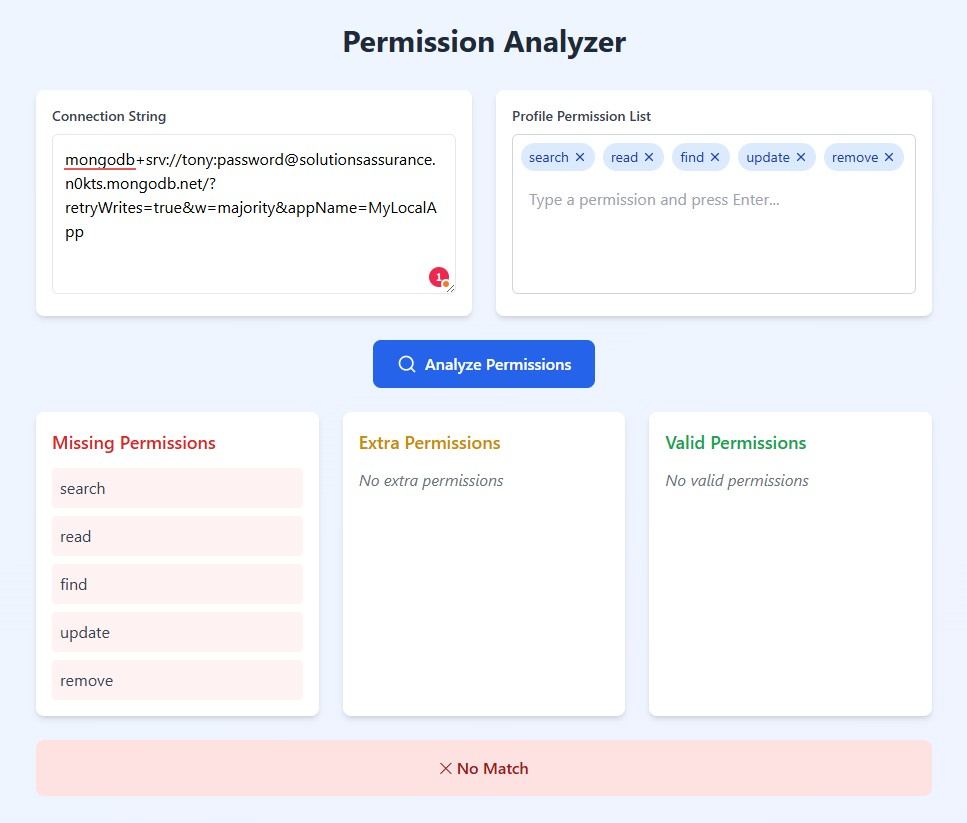
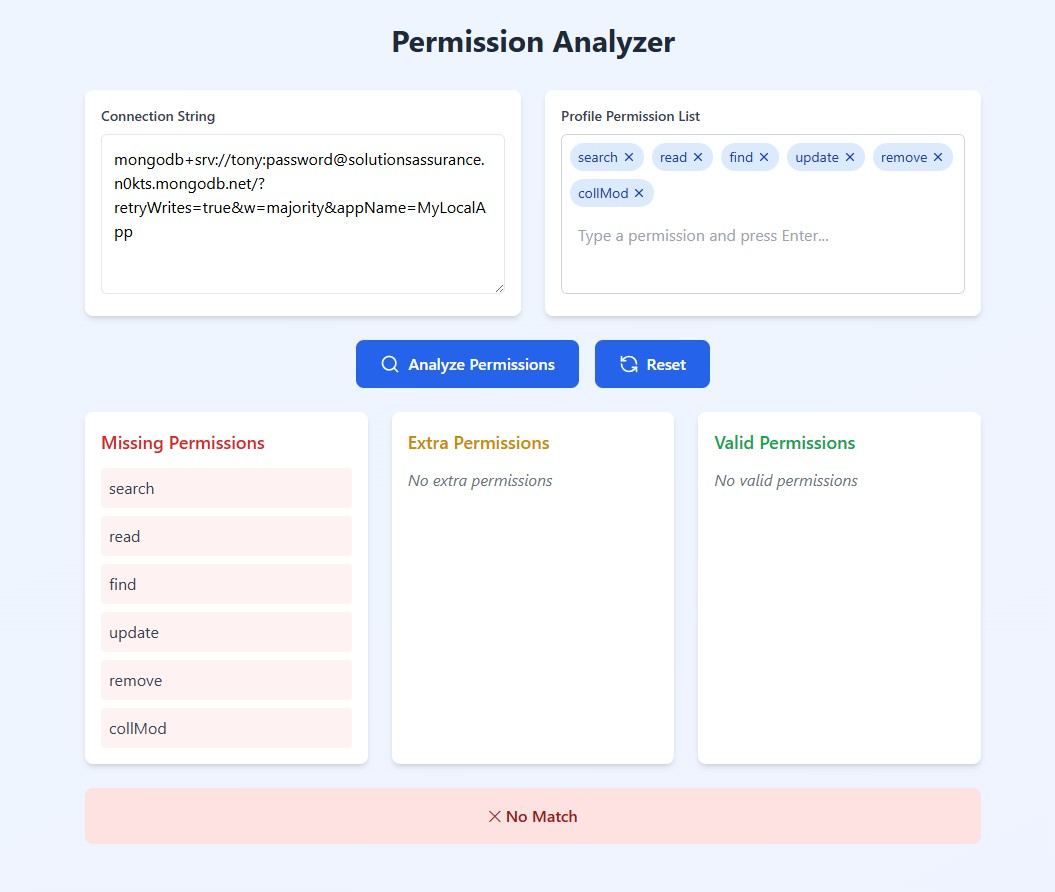
update docs

diff --git a/frontend/src/App.tsx b/frontend/src/App.tsx
@@ -1,9 +1,9 @@
 import { useState } from 'react';
-import { Search } from 'lucide-react';
+import { Search, Circle, RefreshCcw } from 'lucide-react';
 import { ConnectionStringInput } from './components/ConnectionStringInput';
 import { PermissionList } from './components/PermissionList';
 import { AnalysisResults } from './components/AnalysisResults';
-import { AnalysisResponse, RectifyRequest, RectifyResponse } from './types';
+import { AnalysisResponse, RectifyRequest } from './types';
 import { IAMService } from './services/iam.service';
 
 /**
@@ -26,6 +26,14 @@ function App() {
   const handleRemovePermission = (index: number) => {
     setPermissionList(permissionList.filter((_, i) => i !== index));
   };
+
+  const handleReser = async () => {
+    setConnectionString('');
+    setCurrentPermission('');
+    setPermissionList([]);
+    setError(null);
+    setResults(null);
+  }
 
   const handleAnalyze = async () => {
     // Validate permission list
@@ -79,17 +87,29 @@ function App() {
         </div>
 
         <div className="flex flex-col items-center gap-4">
-          <button
-            onClick={handleAnalyze}
-            disabled={isLoading || permissionList.length === 0}
-            className={`flex items-center gap-2 px-6 py-3 rounded-lg font-medium transition-colors ${isLoading || permissionList.length === 0
-              ? 'bg-gray-400 cursor-not-allowed'
-              : 'bg-blue-600 hover:bg-blue-700 text-white'
-              }`}
-          >
-            <Search size={20} />
-            {isLoading ? 'Analyzing...' : 'Analyze Permissions'}
-          </button>
+
+          <div className='flex flex-row items-center gap-4'>
+            <button
+              onClick={handleAnalyze}
+              disabled={isLoading || permissionList.length === 0}
+              className={`flex items-center gap-2 px-6 py-3 rounded-lg font-medium transition-colors ${isLoading || permissionList.length === 0
+                ? 'bg-gray-400 cursor-not-allowed'
+                : 'bg-blue-600 hover:bg-blue-700 text-white'
+                }`}
+            >
+              <Search size={20} />
+              {isLoading ? 'Analyzing...' : 'Analyze Permissions'}
+            </button>
+
+            <button
+              onClick={handleReser}
+              disabled={isLoading}
+              className={`flex items-center gap-2 px-6 py-3 rounded-lg font-medium transition-colors bg-blue-600 hover:bg-blue-700 text-white`}
+            >
+              <RefreshCcw size={20} />
+              {isLoading ? 'Analyzing...' : 'Reset'}
+            </button>
+          </div>
 
           {error && (
             <div className="w-full bg-red-100 border border-red-400 text-red-700 px-4 py-3 rounded relative">
